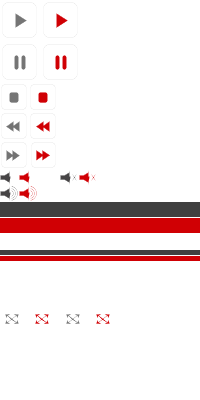
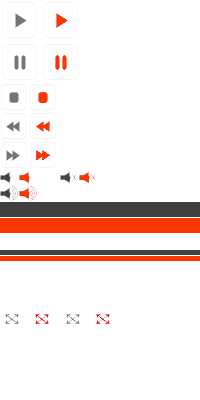
FrontEnd: Updating jplayer themes to use Mango colours, removing 5px psuedo-margin in the centre

diff --git a/root/css/jQuery.jPlayer.Theme/jplayer.Toboggan.css b/root/css/jQuery.jPlayer.Theme/jplayer.Toboggan.css
@@ -2,7 +2,7 @@
  * Skin for jPlayer Plugin (jQuery JavaScript Library)
  * http://www.happyworm.com/jquery/jplayer
  *
- * Skin Name: Blue Monday
+ * Skin Name: Mango
  *
  * Copyright (c) 2010-2011 Happyworm Ltd
  * Dual licensed under the MIT and GPL licenses.
@@ -320,7 +320,7 @@ div.jp-title,
 div.jp-playlist {
 	width:100%;
 	background-color:#ccc;
-	border-top:1px solid #009be3;
+	border-top:0px solid #009be3;
 }
 div.jp-type-single div.jp-title,
 div.jp-type-playlist div.jp-title,
@@ -391,7 +391,6 @@ div.jp-type-playlist div.jp-playlist span.jp-free-media a{
 	color:#666;
 }
 div.jp-type-playlist div.jp-playlist span.jp-free-media a:hover{
-	color:#0d88c1;
 }
 span.jp-artist {
 	font-size:.8em;
@@ -540,7 +539,7 @@ a.jp-shuffle-off:hover {
 	padding:5px;
 	font-size:.8em;
 	background-color:#eee;
-	border:2px solid #009be3;
+	border:0px solid #009be3;
 	color:#000;
 	display:none;
 }

diff --git a/root/css/layout.css b/root/css/layout.css
@@ -125,7 +125,7 @@ a, a:link, a:visited
 	position: absolute;
 	top: 10ex;
 	left: 0px;
-	right: 5px;
+	right: 0px;
 	bottom: $playWindowHeight;
 	padding-top: 0px;
 }
@@ -238,7 +238,7 @@ p label
 	position: absolute;
 	top: 0px;
 	left: 0px;
-	right: 5px;
+	right: 0px;
 	height: 10ex;
 		
 	padding: 0px;
